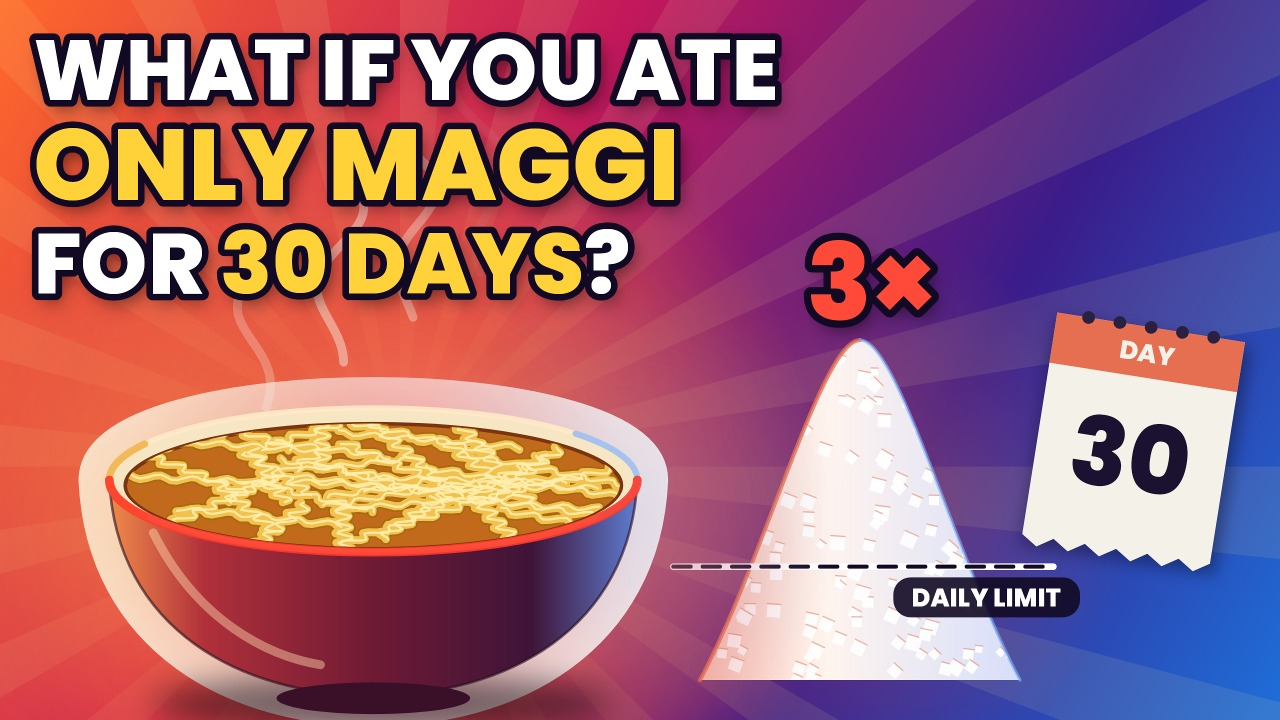
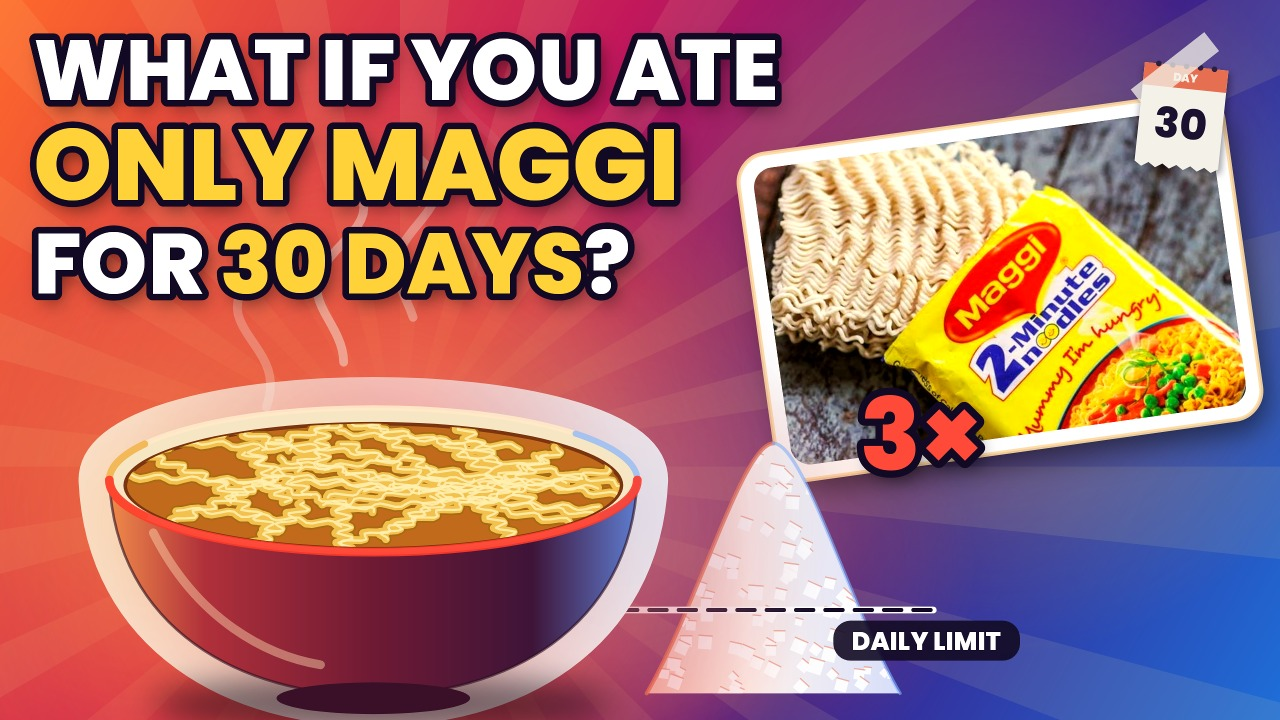
only-maggi-30-days: thumbnail with packet photo (wip)
Claude-Session: https://claude.ai/code/session_01WCp4uSw5KjiMG4S9jNiuYN

Changed region(s): [[0.4688, 0.0306, 1.0, 0.9778]]

diff --git a/runs/only-maggi-30-days/video/thumbs.py b/runs/only-maggi-30-days/video/thumbs.py
@@ -2,6 +2,7 @@
 One thumbnail; text = the title word for word; hero = our big glossy noodle bowl with a red warning glow, a salt heap
 3x over the daily-limit line, and a torn DAY 30 page (the same pieces as the hook's first shot). No KR, no real logo."""
 import math
+import os
 import skia
 from art import *  # noqa: F401,F403
 from krwi.thumb import canvas, save, compare
@@ -60,18 +61,50 @@ def sticker_bowl(c, x, y, s):
     c.restore()
 
 
+PHOTO = os.path.join(os.path.dirname(os.path.abspath(__file__)), "..", "ref", "krishna_packet_photo.jpg")
+
+
+def photo_sticker(c, cx, cy, w, rot):
+    """The photo, cropped tight on the packet + noodle block, graded warmer/contrastier, as a tilted sticker:
+    thick white border, rounded corners, drop shadow, rim glow, a torn DAY 30 tag taped to its corner."""
+    img = skia.Image.open(PHOTO)
+    src = skia.Rect(0, 10, 678, 452)
+    h = w * src.height() / src.width()
+    c.save(); c.translate(cx, cy); c.rotate(rot)
+    glow(c, 0, 0, w * 0.8, "#FFD23A", 0.35)
+    sh = paint("#000000", 0.55); sh.setMaskFilter(skia.MaskFilter.MakeBlur(skia.kNormal_BlurStyle, 22))
+    c.drawRRect(skia.RRect.MakeRectXY(skia.Rect(-w / 2 - 6, -h / 2 + 10, w / 2 + 26, h / 2 + 40), 40, 40), sh)
+    c.drawRRect(skia.RRect.MakeRectXY(skia.Rect(-w / 2 - 22, -h / 2 - 22, w / 2 + 22, h / 2 + 22), 44, 44), paint("white"))
+    k = 1.18; off = -0.06
+    m = [k * 1.06, 0, 0, 0, off + 0.04,
+         0, k, 0, 0, off + 0.01,
+         0, 0, k * 0.9, 0, off - 0.03,
+         0, 0, 0, 1, 0]
+    pp = skia.Paint(AntiAlias=True); pp.setColorFilter(skia.ColorFilters.Matrix(m))
+    c.save(); c.clipRRect(skia.RRect.MakeRectXY(skia.Rect(-w / 2, -h / 2, w / 2, h / 2), 30, 30), True)
+    c.drawImageRect(img, src, skia.Rect(-w / 2, -h / 2, w / 2, h / 2), skia.SamplingOptions(skia.CubicResampler.Mitchell()), pp)
+    c.restore()
+    c.drawRRect(skia.RRect.MakeRectXY(skia.Rect(-w / 2 - 22, -h / 2 - 22, w / 2 + 22, h / 2 + 22), 44, 44), paint("#FFD9A0", 0.9, stroke=6))
+    # torn DAY 30 tag + tape on the top-right corner
+    calendar_page(c, w / 2 - 40, -h / 2 + 10, 0.42, "DAY", "30", rot=14)
+    c.save(); c.translate(w / 2 - 40, -h / 2 - 60); c.rotate(-30)
+    c.drawRect(skia.Rect(-70, -18, 70, 18), paint("#F4F1E8", 0.75))
+    c.restore()
+    c.restore()
+
+
 def thumb(c):
     background(c)
-    # salt heap, 3x over the daily-limit line (cool side), red glow
-    base, lim = 1020, 170
-    salt_heap(c, 1290, base, 3 * lim, 480, T0, red=1.0)
-    c.drawLine(1010, base - lim, 1580, base - lim, paint("white", stroke=10))
-    c.drawLine(1010, base - lim, 1580, base - lim, dashed("#120A24", 1.0, 6, 26, 18))
-    c.drawRRect(skia.RRect.MakeRectXY(skia.Rect(1340, base - lim + 16, 1620, base - lim + 76), 26, 26), paint("#120A24", 0.9))
-    text(c, "DAILY LIMIT", 1480, base - lim + 60, font("extrabold", 38), paint("white"))
-    outline_text(c, "3×", 1210, base - 3 * lim - 30, 160, "#FF4A3A", stroke=22)
-    # torn DAY 30 page pinned top-right
-    calendar_page(c, 1700, 660, 0.95, "DAY", "30", rot=9)
+    # Krishna's own packet photo as a tilted sticker, right side (thumbnail only, never the video)
+    photo_sticker(c, 1500, 430, 690, -8)
+    # salt heap, 3x over the daily-limit line, red glow
+    base, lim = 1040, 125
+    salt_heap(c, 1160, base, 3 * lim, 380, T0, red=1.0)
+    c.drawLine(930, base - lim, 1400, base - lim, paint("white", stroke=10))
+    c.drawLine(930, base - lim, 1400, base - lim, dashed("#120A24", 1.0, 6, 26, 18))
+    c.drawRRect(skia.RRect.MakeRectXY(skia.Rect(1250, base - lim + 16, 1530, base - lim + 76), 26, 26), paint("#120A24", 0.9))
+    text(c, "DAILY LIMIT", 1390, base - lim + 60, font("extrabold", 38), paint("white"))
+    outline_text(c, "3×", 1290, base - 3 * lim + 40, 150, "#FF4A3A", stroke=22)
     # hero bowl, big, with sticker outline
     glow(c, 560, 860, 640, "#FF1A1A", 0.6)
     sticker_bowl(c, 560, 720, 1.32)
